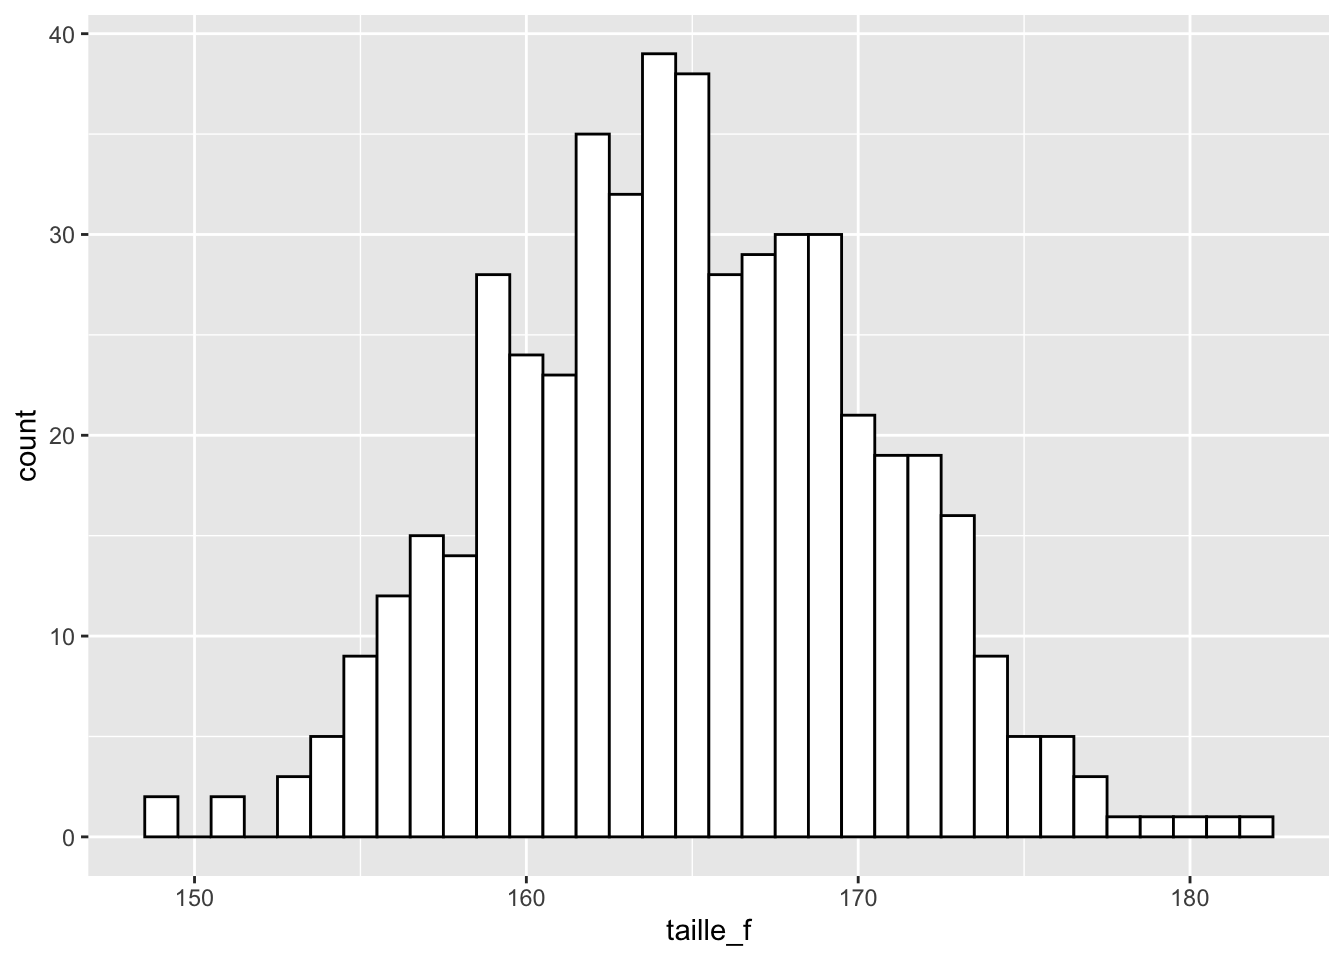
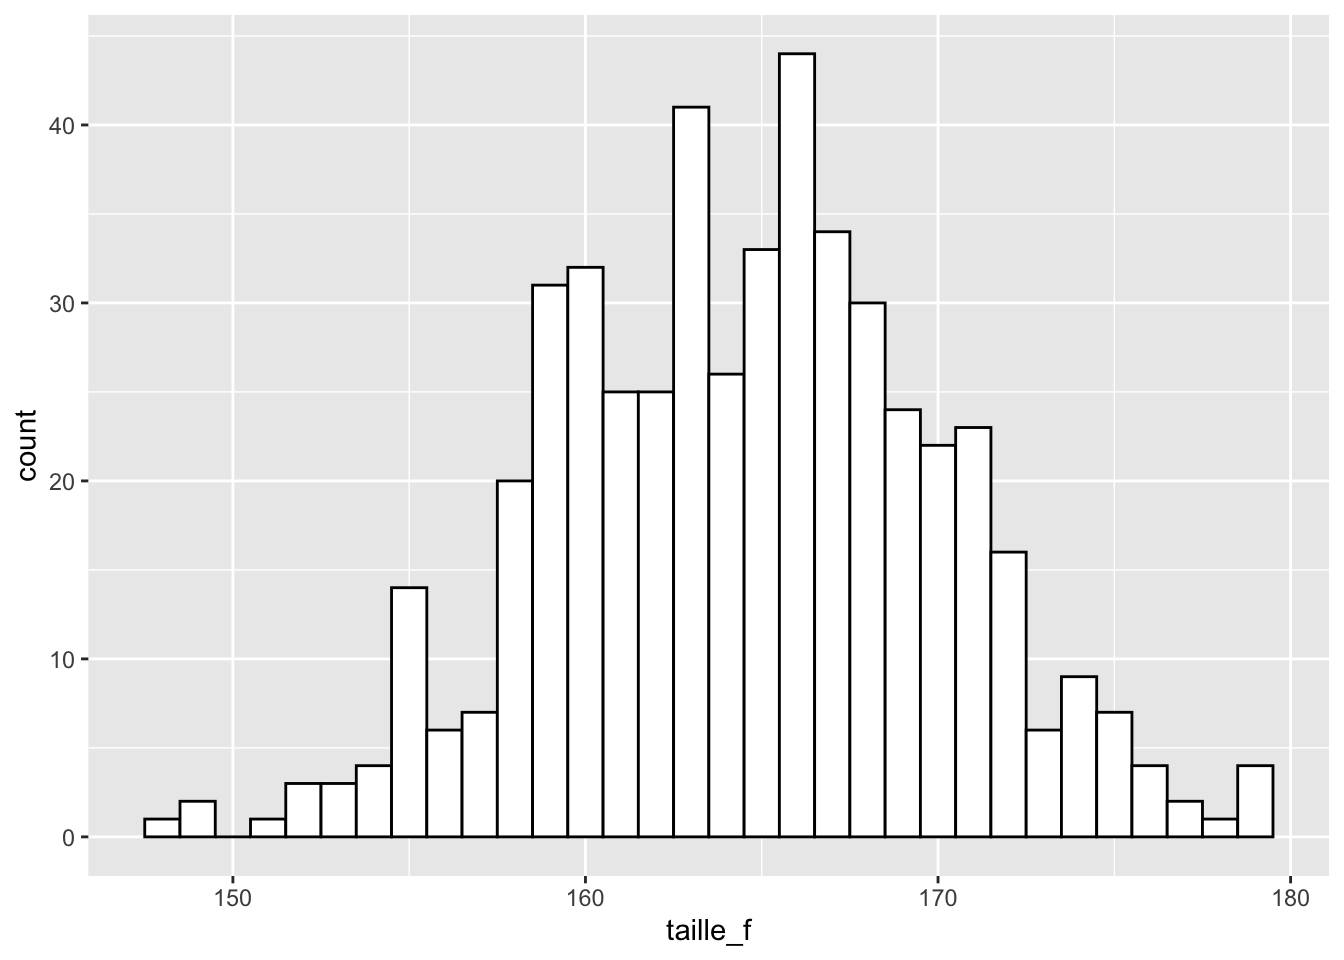
session 5 v3

diff --git a/index.html b/index.html
@@ -1709,7 +1709,7 @@ Attention
 <span id="cb99-5"><a href="#cb99-5" aria-hidden="true" tabindex="-1"></a></span>
 <span id="cb99-6"><a href="#cb99-6" aria-hidden="true" tabindex="-1"></a><span class="fu">head</span>(taille_f)</span></code><button title="Copy to Clipboard" class="code-copy-button"><i class="bi"></i></button></pre></div>
 <div class="cell-output cell-output-stdout">
-<pre><code>[1] 164.0153 173.1738 163.4386 162.0325 164.8642 169.1685</code></pre>
+<pre><code>[1] 167.2715 166.1385 163.9286 159.3777 162.2002 169.0654</code></pre>
 </div>
 <div class="sourceCode cell-code" id="cb101"><pre class="sourceCode r code-with-copy"><code class="sourceCode r"><span id="cb101-1"><a href="#cb101-1" aria-hidden="true" tabindex="-1"></a><span class="co"># stocker taille_f comme objet de type 'data.frame'</span></span>
 <span id="cb101-2"><a href="#cb101-2" aria-hidden="true" tabindex="-1"></a>taille_f <span class="ot">&lt;-</span> <span class="fu">as.data.frame</span>(taille_f)</span>
